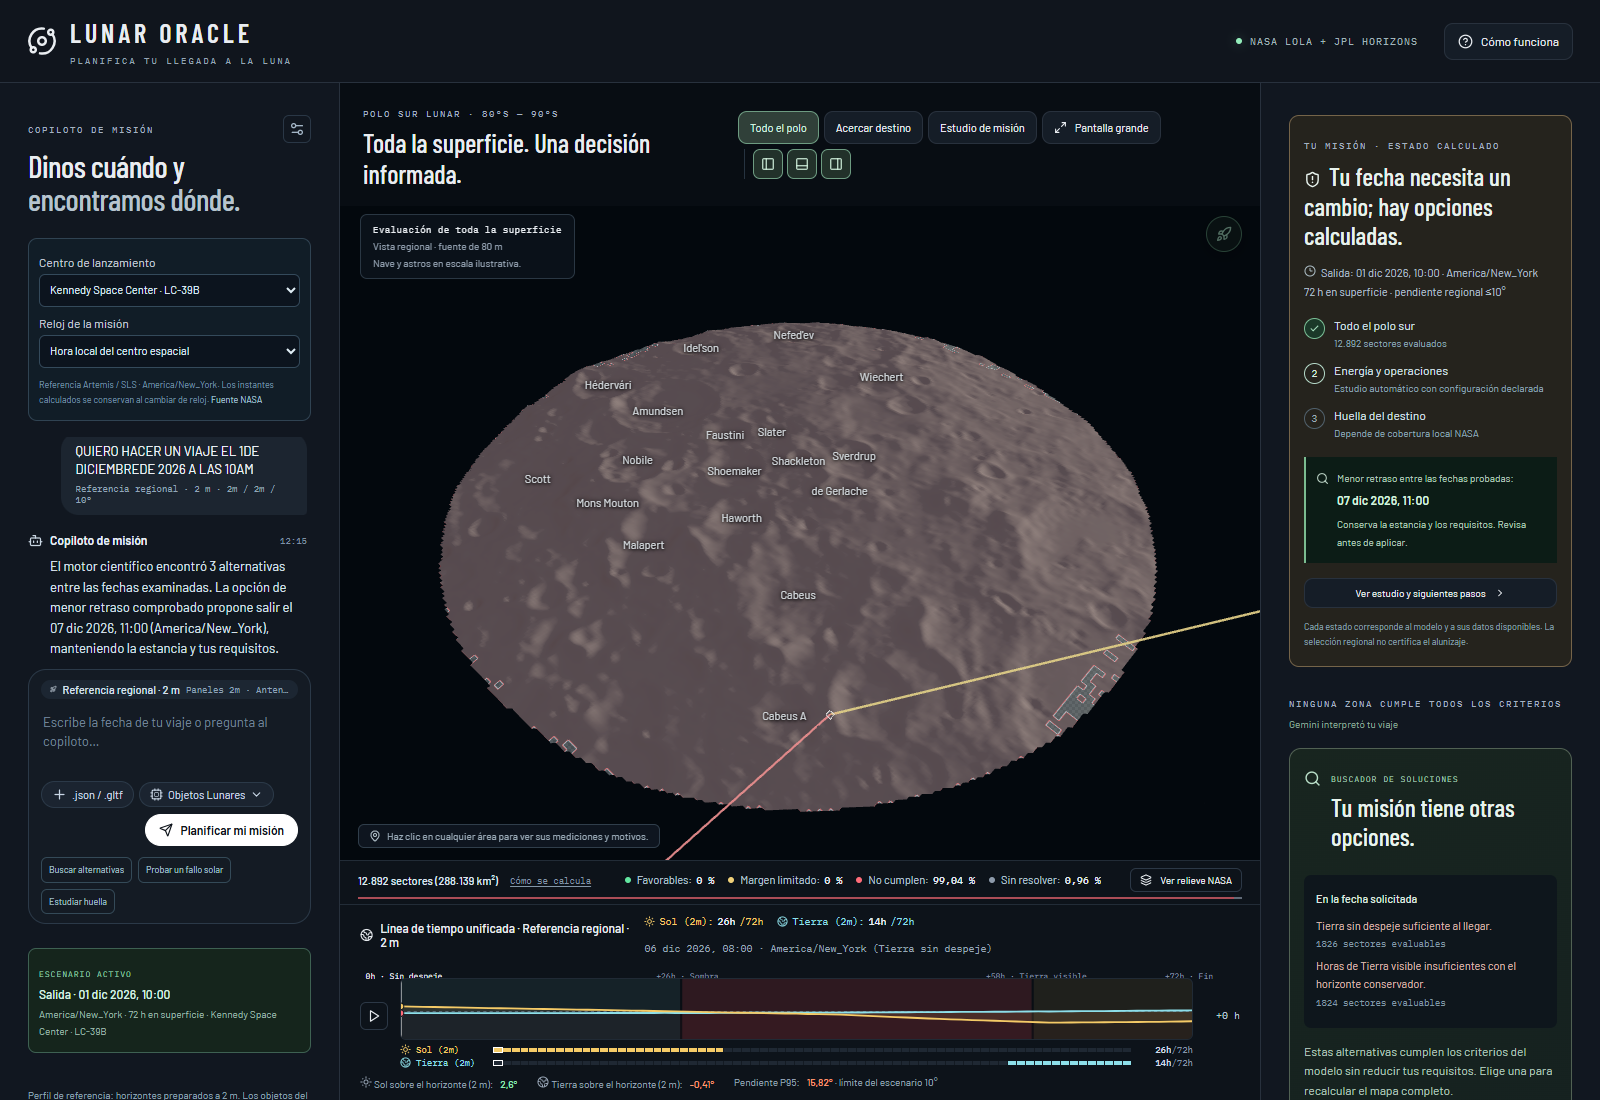
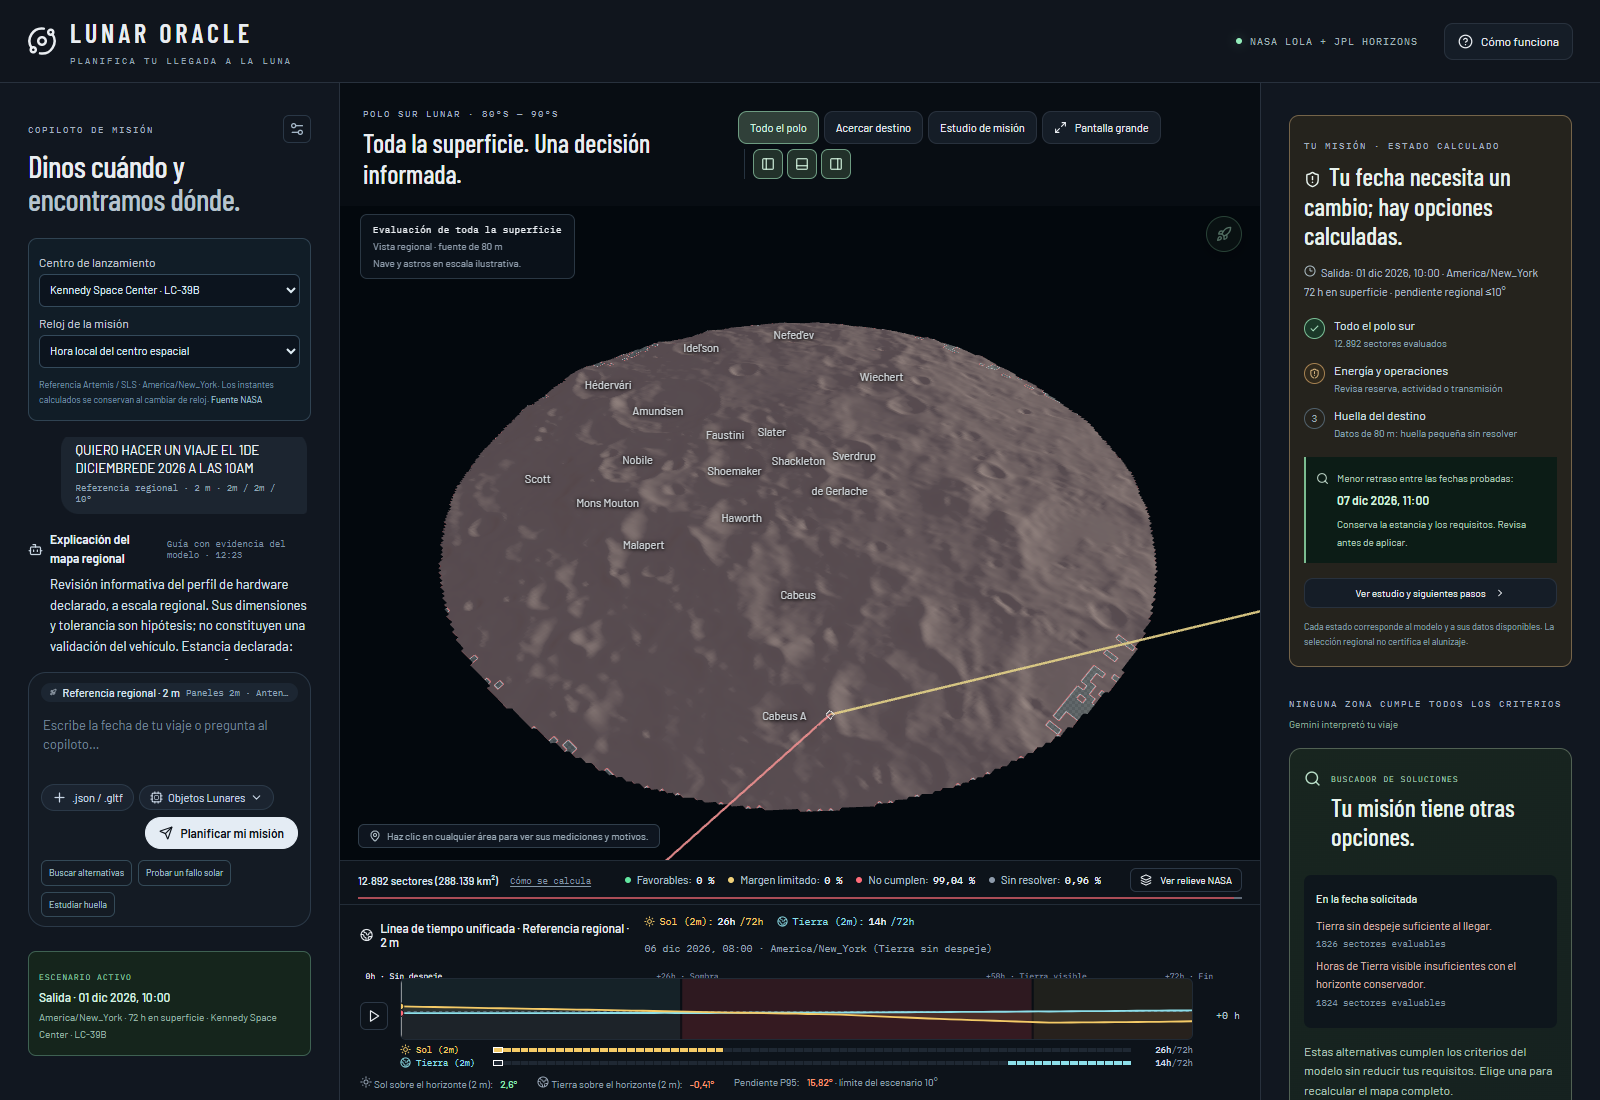
fix: preserve accessible mission settings and visible validation errors

diff --git a/frontend/src/features/mission/UnifiedMissionPlanner.tsx b/frontend/src/features/mission/UnifiedMissionPlanner.tsx
@@ -936,7 +936,10 @@ export default function UnifiedMissionPlanner(){
               type="button"
               className={'chat-settings-gear-btn'+(preferences?' active':'')}
               onClick={()=>setPreferences(v=>!v)}
-              aria-label={t.manualSettings}
+              aria-label={intent?'Cambiar fecha o requisitos':t.manualSettings}
+              aria-expanded={preferences}
+              aria-controls="mission-manual-settings"
+              aria-haspopup="dialog"
               title={t.manualSettings}
             >
               <Settings2 size={16}/>
@@ -946,10 +949,10 @@ export default function UnifiedMissionPlanner(){
         </div>
 
         {preferences&&(
-          <div className="chat-manual-modal" role="dialog" aria-modal="true" aria-label="Ajustes y requisitos manuales">
+          <div id="mission-manual-settings" className="chat-manual-modal" role="dialog" aria-label="Ajustes y requisitos manuales" onKeyDown={e=>{if(e.key==='Escape')setPreferences(false)}}>
             <div className="manual-modal-head">
               <strong>{plan?'Cambiar fecha o requisitos':'Ajustes y Requisitos Manuales'}</strong>
-              <button type="button" onClick={()=>setPreferences(false)} aria-label="Cerrar ajustes"><X size={15}/></button>
+              <button type="button" autoFocus onClick={()=>setPreferences(false)} aria-label="Cerrar ajustes"><X size={15}/></button>
             </div>
             <div className="trip-preferences">
               {intent&&<label>{intent.date_kind==='landing'?'Fecha de alunizaje':'Fecha de salida'} · {TIMEZONE}<input aria-label="Fecha de viaje" type="datetime-local" value={departureInput} onChange={e=>{clearResult();setDepartureInput(e.target.value)}}/></label>}
@@ -957,8 +960,8 @@ export default function UnifiedMissionPlanner(){
               <label>Pendiente regional máxima · grados<input aria-label="Pendiente máxima" type="number" min={0} max={45} value={slope} onChange={e=>{clearResult();setSlope(Number(e.target.value))}}/></label>
               <label>Horas mínimas de Sol<input aria-label="Horas mínimas de Sol" type="number" min={0} max={Number(stay)} value={sunHours} onChange={e=>{clearResult();setSunHours(Number(e.target.value))}}/></label>
               <label>Horas mínimas de Tierra visible<input aria-label="Horas mínimas de Tierra" type="number" min={0} max={Number(stay)} value={earthHours} onChange={e=>{clearResult();setEarthHours(Number(e.target.value))}}/></label>
-              <p>El viaje de ida y vuelta se estima por separado. La estancia no es la duración total.</p>
-              {intent&&<button type="button" onClick={()=>{setPreferences(false);void recalculate()}} disabled={Boolean(busy)}>Recalcular con estos cambios</button>}
+              <p>El viaje de ida y vuelta se estima por separado. La estancia no es la duración total. Los perfiles del catálogo son hipótesis editables, no fichas verificadas del fabricante.</p>{(error||loadError)&&<p className="trip-error" role="alert">{error||loadError}</p>}
+              {intent&&<button type="button" onClick={()=>void recalculate()} disabled={Boolean(busy)}>Recalcular con estos cambios</button>}
             </div>
           </div>
         )}
@@ -1045,7 +1048,7 @@ export default function UnifiedMissionPlanner(){
           <div ref={chatEndRef}/>
         </div>
 
-        {(error||loadError)&&<div className="trip-error" role="alert">{error||loadError}{loadError&&<button onClick={()=>setRetry(r=>r+1)}>Reintentar datos</button>}</div>}
+        {!preferences&&(error||loadError)&&<div className="trip-error" role="alert">{error||loadError}{loadError&&<button onClick={()=>setRetry(r=>r+1)}>Reintentar datos</button>}</div>}
         {!atlas&&!loadError&&<p className="loading-note">Cargando el relieve lunar…</p>}
 
         {/* ChatGPT / Gemini style unified composer with single + (.json/.gltf) and Lunar Object Selector */}

diff --git a/docs/CONVERSATIONAL_MISSION_CONTROL.md b/docs/CONVERSATIONAL_MISSION_CONTROL.md
@@ -57,7 +57,7 @@ El resumen principal separa tres estados:
 
 Un sector verde regional no implica presupuesto energético suficiente ni huella segura. Los datos de 80 m no resuelven una huella pequeña de la nave. Los estados pendientes permanecen explícitos.
 
-Las mediciones detalladas del copiloto se pueden desplegar. El JSON descargado conserva el historial reciente de conversación, fechas interpretadas, centro de lanzamiento, parámetros, fuentes, estudios y propuestas aplicadas. Ese registro permite revisar qué se pidió, qué se cambió y qué se calculó.
+Las mediciones detalladas del copiloto se pueden desplegar. El engranaje superior abre las preferencias; si un valor es incompatible, muestra el error y mantiene abierto el formulario para corregirlo. Escape permite cerrarlo. El JSON descargado conserva el historial reciente de conversación, fechas interpretadas, centro de lanzamiento, parámetros, fuentes, estudios y propuestas aplicadas. Ese registro permite revisar qué se pidió, qué se cambió y qué se calculó.
 
 ## Reproducir
 
